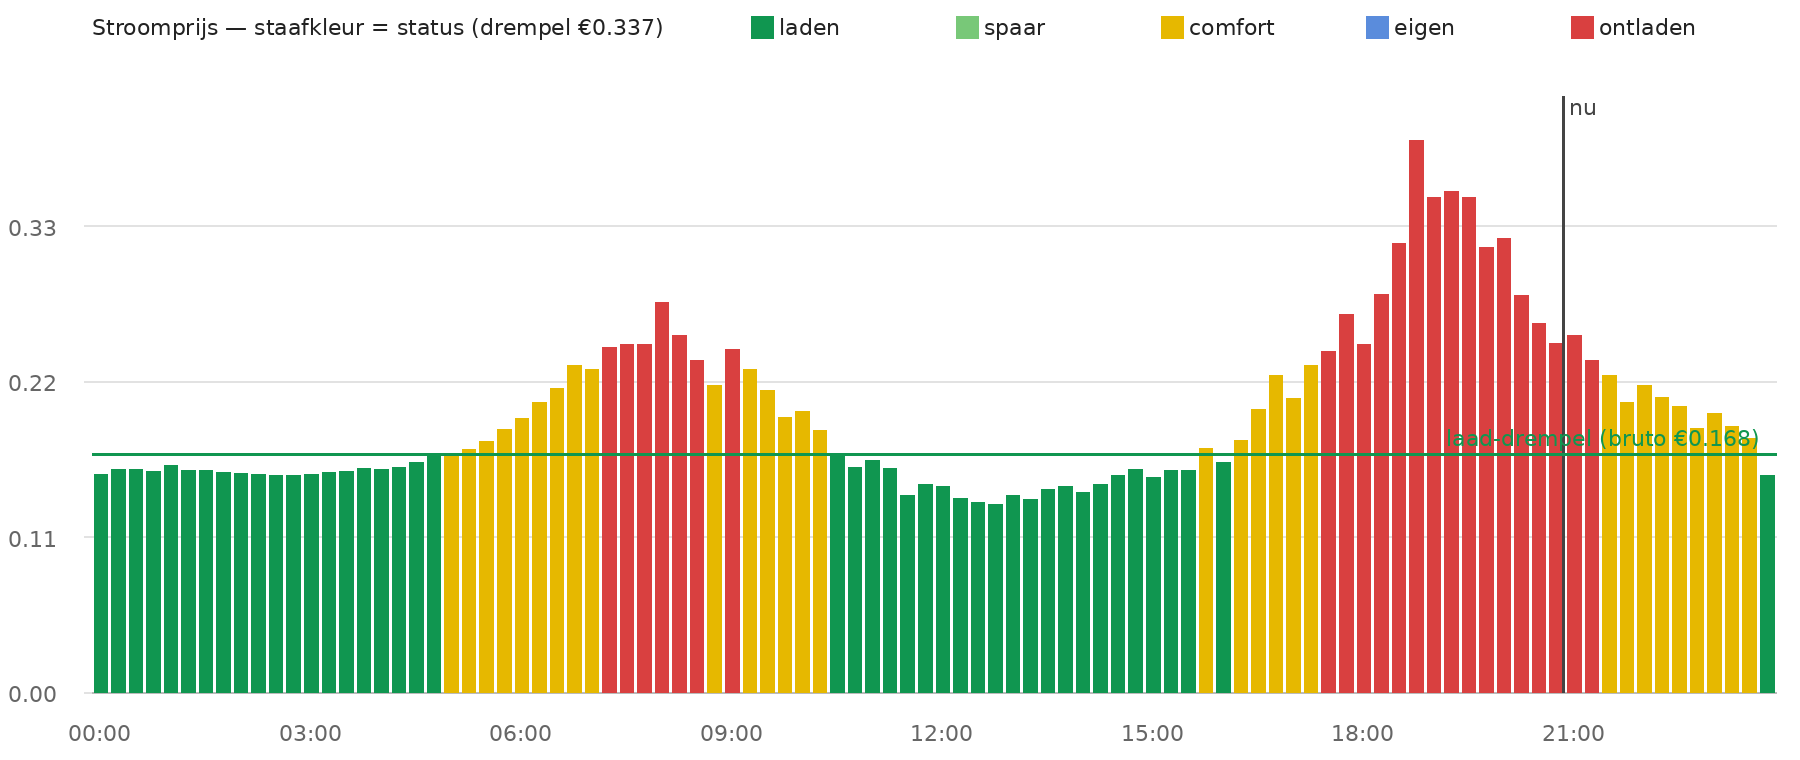
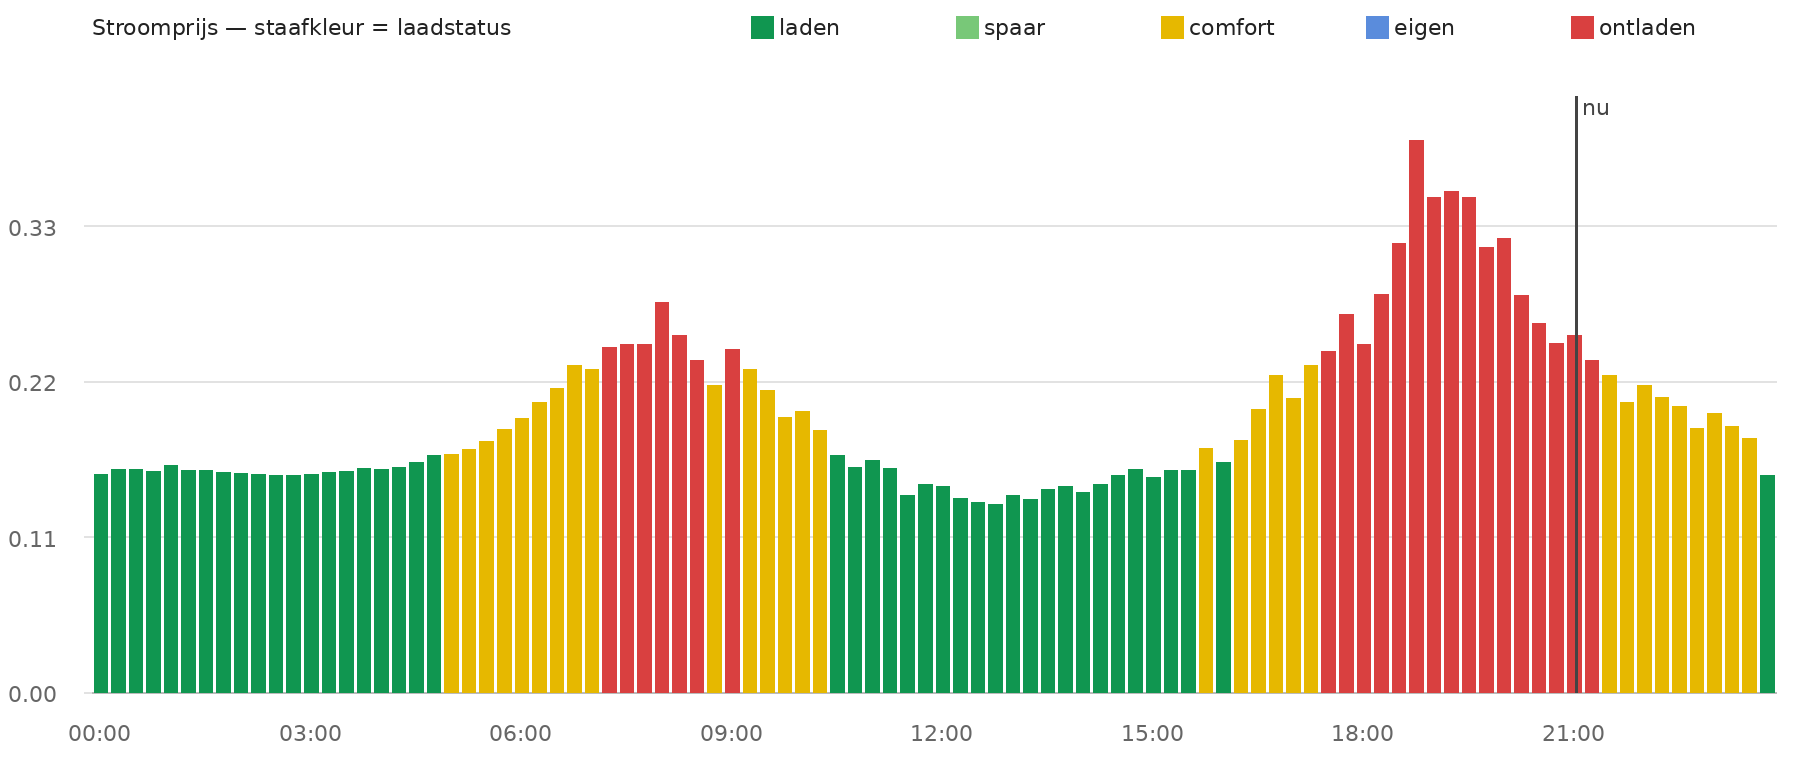
Voorbeeldgrafiek: drempellijn verwijderd (verwarrend); entiteitenlijst aangevuld

Changed region(s): [[0.0622, 0.5447, 0.9956, 0.6053], [0.2178, 0.0303, 0.3733, 0.0605], [0.8711, 0.1211, 0.9022, 0.1513]]

diff --git a/README.md b/README.md
@@ -67,7 +67,7 @@ sensor.prijzen_bron_energyzero        sensor.stroomprijs_afname
                                     sensor.stroomprijs_levering
 binary_sensor.prijzen_kruiscontrole_afwijking
 binary_sensor.prijzen_morgen_beschikbaar
-input_number.prijs_btw / _energiebelasting / _opslag_afname / _opslag_levering / _afwijkingsdrempel
+input_number.prijs_btw / _energiebelasting / _opslag_afname / _opslag_levering / _afwijkingsdrempel / _laad_drempel
 input_boolean.prijs_saldering_energiebelasting_teruggave
 automation.prijzen_*  (2 meld-automatiseringen)
 ```
